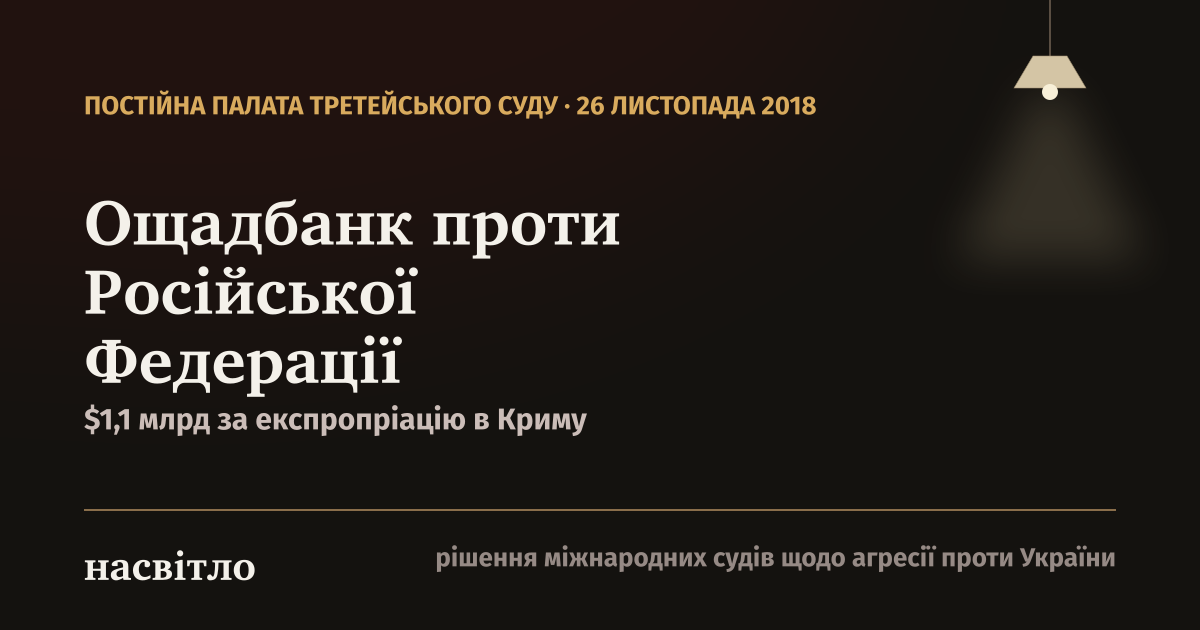
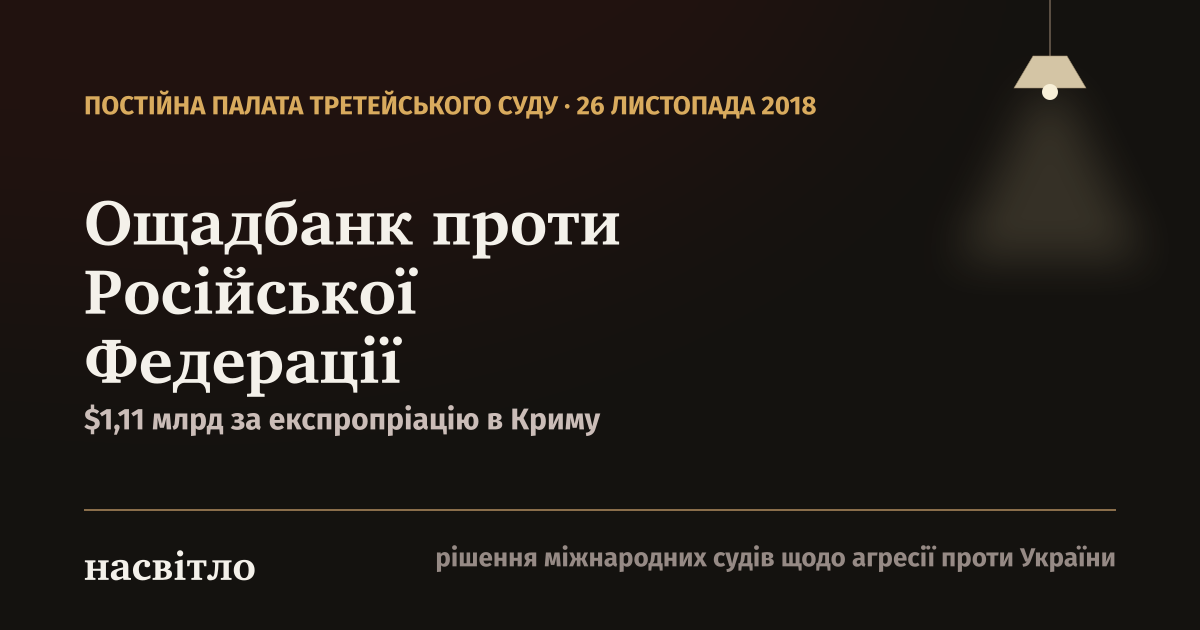
Ощадбанк: на картці для соцмереж «$1,11 млрд», як на сторінці
Картка казала «$1,1 млрд», плитка з цифрою — «$1,11 млрд». Вирівняно до
точнішого; картку перемальовано збіркою (og-cards).

Рішення власниці.

Claude-Session: https://claude.ai/code/session_01L1AboUddvX4HFEoMXo9NE6

Changed region(s): [[0.0925, 0.6333, 0.4933, 0.6937]]

diff --git a/src/content/summaries/oschadbank.ts b/src/content/summaries/oschadbank.ts
@@ -59,7 +59,7 @@ export const oschadbank: DecisionSummary = {
   card: {
     title: "Ощадбанк проти Російської Федерації",
     eyebrow: "Постійна палата третейського суду · 26 листопада 2018",
-    kicker: "$1,1 млрд за експропріацію в Криму",
+    kicker: "$1,11 млрд за експропріацію в Криму",
   },
   /* The masthead in Ukrainian — the caption under the title and the line
      in the eyebrow. `masthead` keeps the decision's own English, which is
